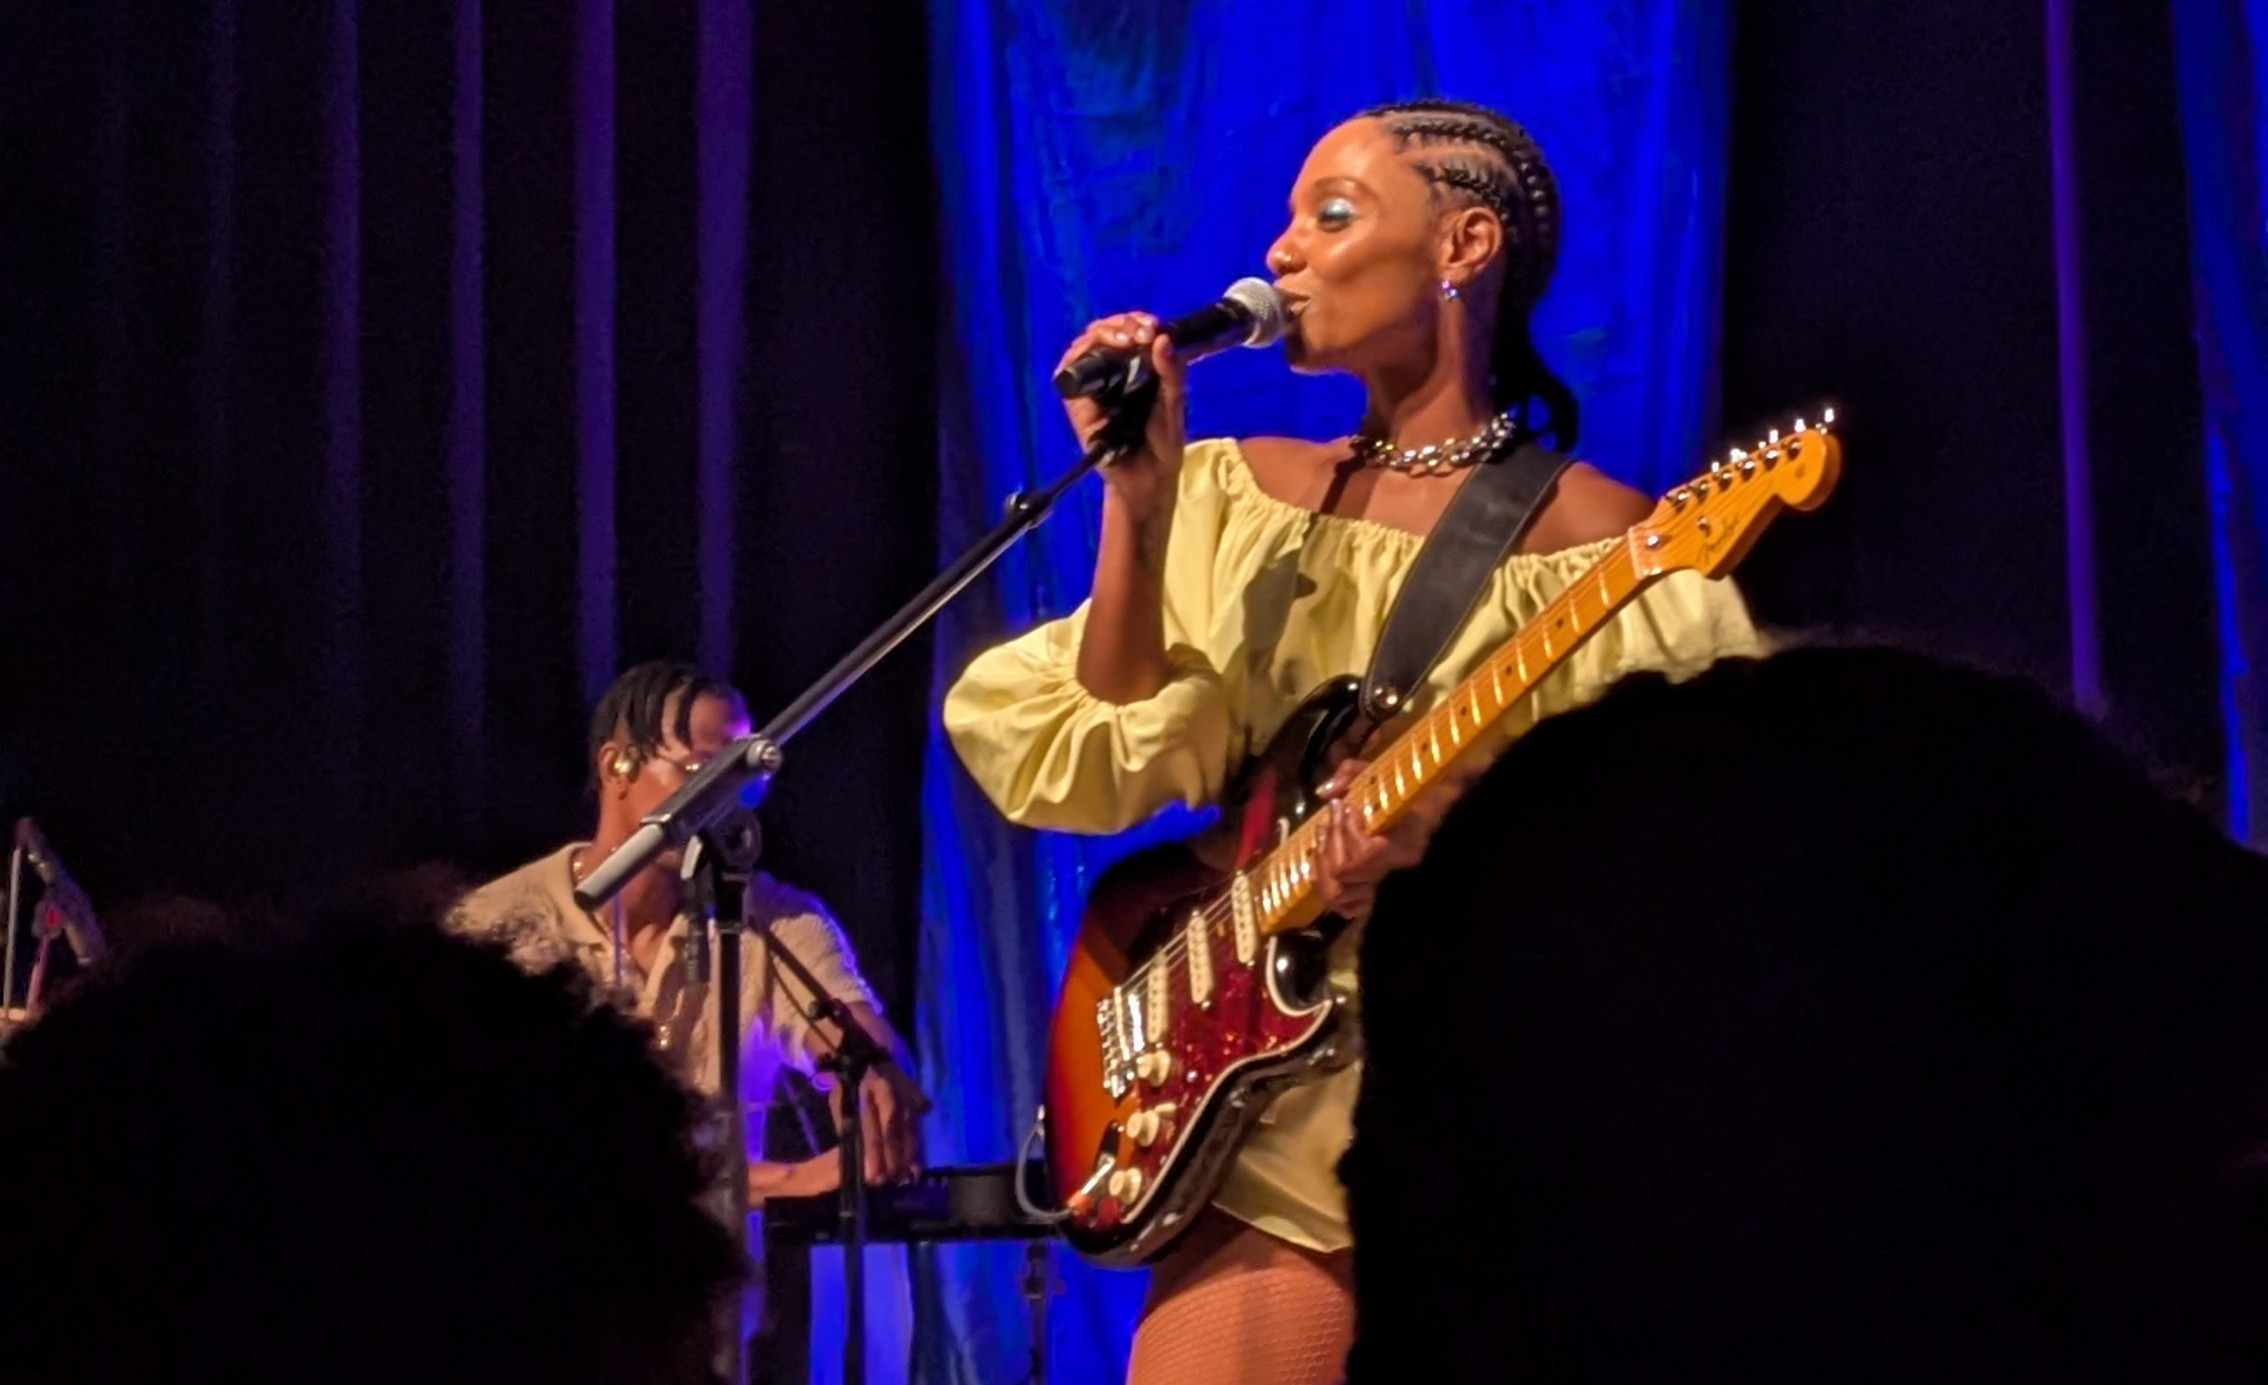
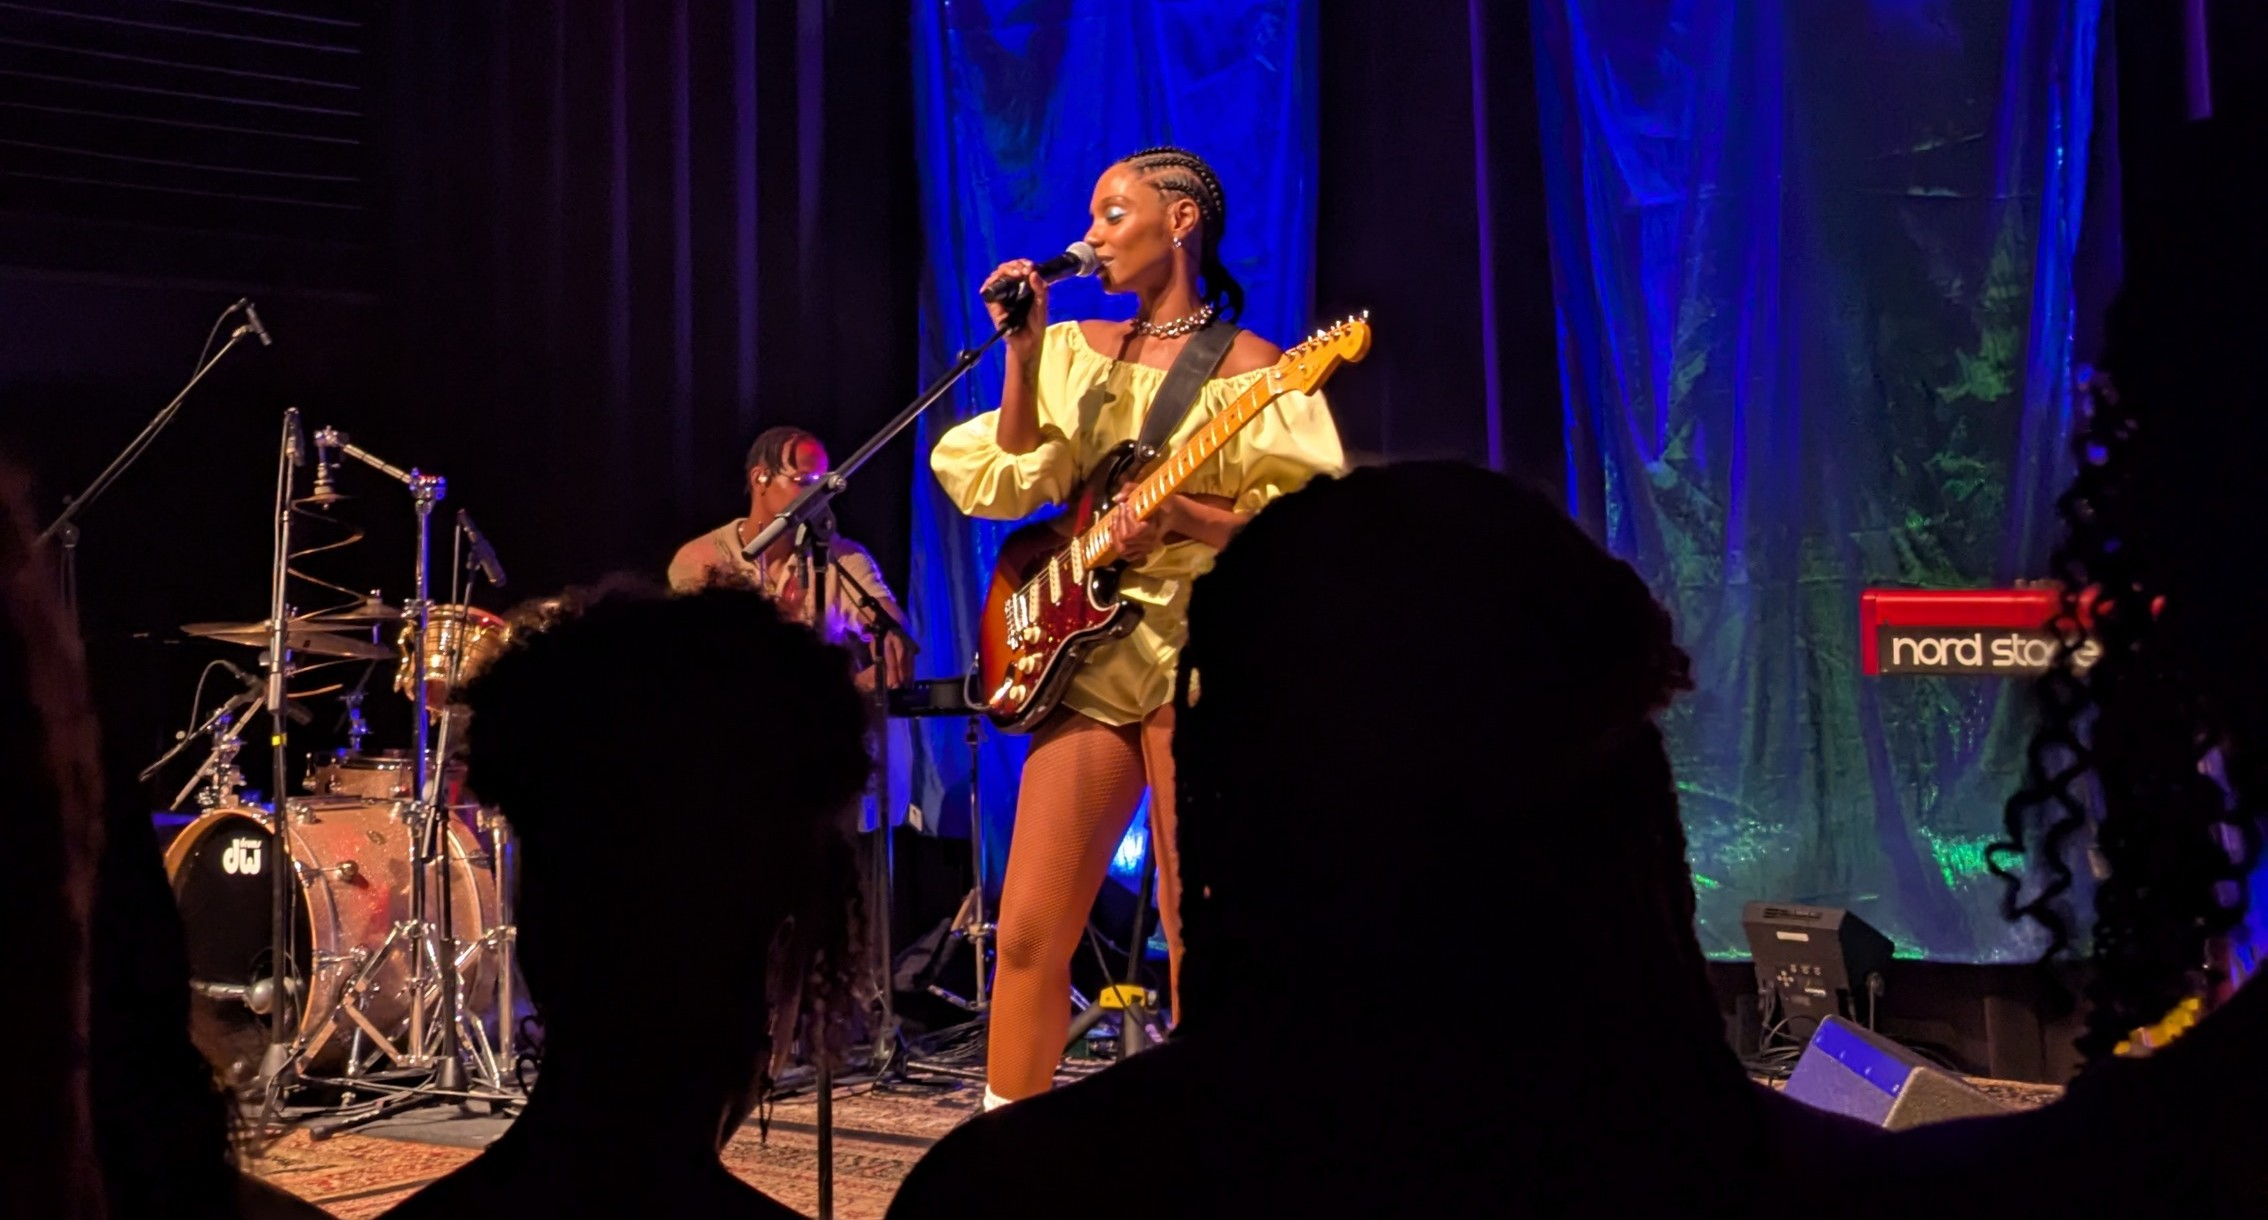
Update images

diff --git a/content/blog/2.md b/content/blog/2.md
@@ -16,7 +16,7 @@ excerpt:
 tags:
   - live music
   - review
-thumb: /blog/2/mereba-crop.jpg
+thumb: /blog/2/mereba-film.jpg
 ---
 
 ::hero
